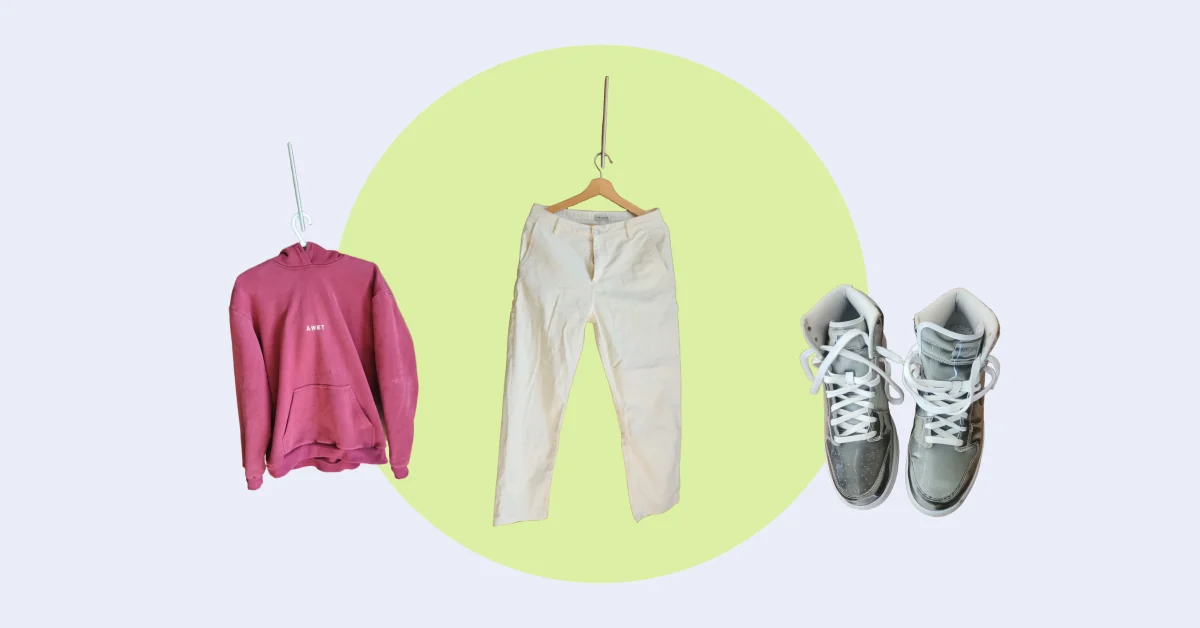
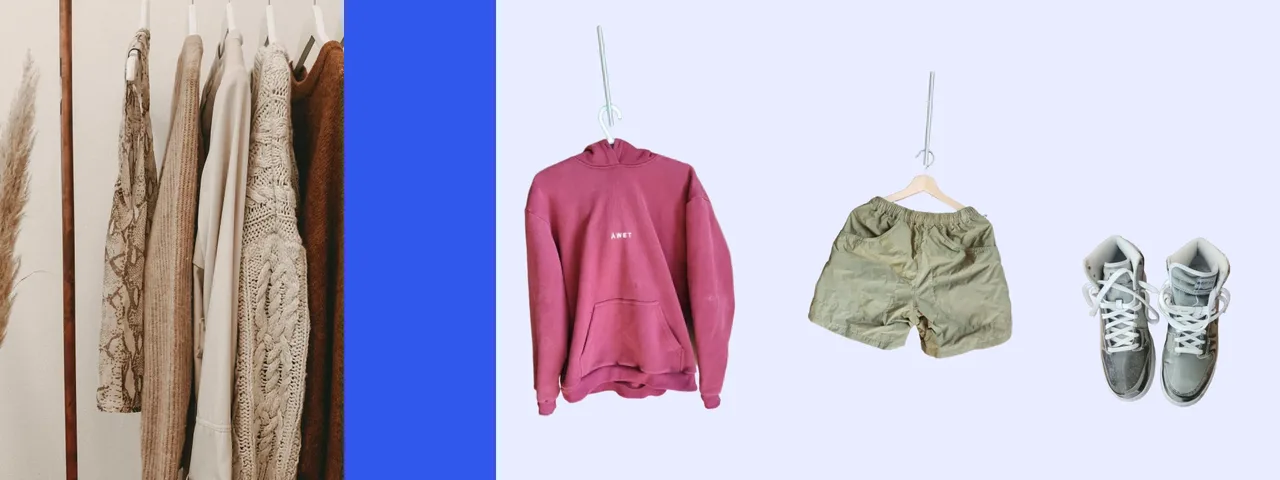
feature(ui): update brand artwork from marketing kit and remove Bramble Labs card
- Banners and marks re-derived from the Bramble Labs marketing library's
  website-graphics set (2026-11-05 edition) and regenerated avatars
- Project cards show the panoramic 1920x720 website banners at their
  native aspect, uncropped
- Remove the Bramble Labs studio card, its dormant projects.json entry,
  exclusion filter, and bramble brand assets
- Update bannerAlt copy, artwork provenance README, and stale
  README/WORKSPACE artwork references
- refresh.spec.ts asserts the studio card is gone; hidden post sources
  untouched

diff --git a/src/app/projects/page.tsx b/src/app/projects/page.tsx
@@ -4,7 +4,6 @@ import { PageShell } from "@/components/layout/PageShell";
 import { Section } from "@/components/layout/Section";
 import { OtherProjectsList } from "@/components/project/OtherProjectsList";
 import { ProjectsList } from "@/components/project/ProjectsList";
-import { Studio } from "@/components/project/Studio";
 import { blogEnabled } from "@/lib/projects";
 
 export const generateMetadata = (): Metadata => {
@@ -34,7 +33,6 @@ const BlogPage = () => {
               full-stack development.
             </p>
             <ProjectsList />
-            <Studio />
           </div>
 
           <div className="space-y-6">

diff --git a/src/components/project/ProjectCard.tsx b/src/components/project/ProjectCard.tsx
@@ -32,10 +32,10 @@ export const ProjectCard = ({ project }: { project: Project }) => {
             <Image
               src={project.banner}
               alt={project.bannerAlt ?? ""}
-              width={1200}
-              height={628}
+              width={1280}
+              height={480}
               sizes="(min-width: 1440px) 500px, (min-width: 1024px) 40vw, (min-width: 640px) 50vw, 100vw"
-              className="project-art aspect-[1200/628] w-full object-cover"
+              className="project-art aspect-[1920/720] w-full object-cover"
             />
           </a>
         )}

diff --git a/src/components/sections/Projects.tsx b/src/components/sections/Projects.tsx
@@ -1,7 +1,6 @@
 import { Section } from "@/components/layout/Section";
 import { OtherProjectsList } from "@/components/project/OtherProjectsList";
 import { ProjectsList } from "@/components/project/ProjectsList";
-import { Studio } from "@/components/project/Studio";
 
 export const Projects = () => (
   <Section
@@ -13,7 +12,6 @@ export const Projects = () => (
   >
     <div className="space-y-10">
       <ProjectsList />
-      <Studio />
 
       <div className="space-y-6">
         <div className="flex items-baseline gap-3">

diff --git a/tests/refresh.spec.ts b/tests/refresh.spec.ts
@@ -32,7 +32,8 @@ test("current products have working local artwork and canonical public links", a
   }
   await expect(
     page.getByRole("link", { name: "Meet Bramble Labs" }),
-  ).toHaveAttribute("href", "https://bramblelabs.co");
+  ).toHaveCount(0);
+  await expect(page.getByText("Growing at Bramble Labs.")).toHaveCount(0);
   await expect(
     page.locator(
       'a[href*="celestialstag"], a[href*="theluckyegg"], a[href*="github.com/miniaxolotl/fashion-vision"], a[href*="github.com/bramble-labs/fern"]',

diff --git a/src/components/project/OtherProjectsList.tsx b/src/components/project/OtherProjectsList.tsx
@@ -10,7 +10,7 @@ import type { Project } from "@/types";
 
 export const OtherProjectsList = () => {
   const other: Project[] = projects
-    .filter((p) => !p.featured && p.slug !== "bramble-labs")
+    .filter((p) => !p.featured)
     .sort(sortByYearDesc);
   return (
     <div className="divide-y divide-border border-y border-border">

diff --git a/public/img/brands/README.md b/public/img/brands/README.md
@@ -1,28 +1,33 @@
 # Portfolio brand artwork
 
-These assets are optimized WebP derivatives of the supplied
-`/home/elias/Development/marketing` library, selected on 2026-10-19.
-The originals are retained in that library; proportions and identities are unchanged.
+These assets are optimized WebP derivatives of the Bramble Labs marketing
+library at `/home/elias/Development/bramble-labs/marketing`, selected on
+2026-11-10 from its `website-graphics` edition (2026-11-05). The originals are
+retained in that library; proportions and identities are unchanged.
 
-For each of `fern`, `fitr`, `grove`, `burrow`, and `bramble`:
+For each of `fern`, `fitr`, `grove`, and `burrow`:
 
-- `*-banner.webp`: `<brand>/google-display/images/<brand>-clean-01-1200x628.png`
-- `*-mark.webp`: `<brand>/avatars/<brand>-avatar-accent-400.png`, resized to 160×160
+- `*-banner.webp`: `<brand>/website-graphics/banner.webp` (1920×720), resized
+  to 1280×480
+- `*-mark.webp`: `<brand>/avatars/<brand>-avatar-accent-400.png`, resized to
+  160×160
 
-Grove uses the selected two-leaf sprout identity documented in
-`grove/brand/README.md`. Its older cover with the retired Vercel URL is not used.
-These are editorial campaign compositions, not application screenshots.
+These are editorial website compositions, not application screenshots. Grove
+uses the selected two-leaf sprout identity documented in `grove/brand/README.md`.
+Its older cover with the retired Vercel URL is not used.
 
-Fern's friends photograph comes from
-[Unsplash](https://images.unsplash.com/photo-1529156069898-49953e39b3ac), under the
-[Unsplash license](https://unsplash.com/license). Fitr's garment cutouts are
-user-supplied photographs from its website. The Grove, Burrow, and Bramble
-illustrations are original marketing-library artwork.
+Fern's banner photography (road trip, campfire, and sparklers) comes from
+[Unsplash](https://unsplash.com/license) images credited in the marketing
+library's `website-graphics/manifest.json`. Fitr's garment cutouts are
+user-supplied photographs from its website. The Grove and Burrow illustrations
+are original marketing-library artwork.
 
 The bundled DM Sans and Instrument Serif files come from the same library's
 `_source/assets/fonts/`. Their SIL Open Font Licenses are included alongside the
 fonts in `src/app/fonts/`. The portfolio pages use system sans-serif typography;
 the generated sharing image uses the bundled DM Sans regular and bold files.
 
-Bramble Labs Inc. is the company behind Fern, Grove, and Burrow.
-Fitr is independently operated by Fitr Technologies Inc.
+Bramble Labs Inc. is the company behind Fern, Grove, and Burrow. Its website is
+linked from the About section; the portfolio no longer carries Bramble Labs
+artwork or a studio card. Fitr is independently operated by Fitr Technologies
+Inc.

diff --git a/WORKSPACE.md b/WORKSPACE.md
@@ -67,10 +67,11 @@ were unbound; no Geist font was actually loaded. The layout does not load DM San
 or Instrument Serif. The sharing image uses bundled DM Sans with a bold sans
 treatment and the restored colours; font licenses remain bundled.
 
-`public/img/brands/README.md` records the source of all five current brand marks
-and banners from the marketing library. Artwork is optimized WebP with explicit
-dimensions and responsive Next Image sizing. Campaign compositions are not app
-screenshots. Legacy article screenshots remain identified as historical where
+`public/img/brands/README.md` records the source of all four current brand marks
+and banners from the marketing library's website-graphics set. Artwork is
+optimized WebP with explicit dimensions and responsive Next Image sizing.
+Website compositions are not app screenshots. Legacy article screenshots remain
+identified as historical where
 appropriate. Global reduced-motion rules remove transitions and smooth scrolling;
 the personal mascot uses a still frame of the original pixel art.
 

diff --git a/documentation/screenshots/graphics-refresh/README.md b/documentation/screenshots/graphics-refresh/README.md
@@ -1,0 +1,17 @@
+# Graphics refresh screenshots
+
+Captured 2026-11-10 against local dev servers running the two compared
+revisions of `feature/portfolio-graphics`:
+
+- `before-*` — base `feature/portfolio-refresh` (`8529e4b`), served on
+  `localhost:6683`.
+- `after-*` — this branch, served on `localhost:6681`.
+
+| File | View | Shows |
+| --- | --- | --- |
+| `before/after-featured-desktop.png` | 1280×900 desktop, featured cards grid | Banner + mark swap: old 1200×628 campaign banners → new 1920×720 website-graphics banners (shown uncropped at their native aspect) |
+| `before/after-projects-desktop.png` | 1280×900 desktop, full projects section | Removal of the "Growing at Bramble Labs" studio card between featured work and the archive |
+| `before/after-projects-mobile.png` | 390×844 mobile (2×), full projects section | Same two changes at mobile width |
+
+Element screenshots of `#projects` (and its featured-cards grid), Playwright
+Chromium. Images wait for decode before capture.

diff --git a/README.md b/README.md
@@ -3,7 +3,7 @@
 [mawa.dev](https://mawa.dev) · Next.js 16 · React 19 · TypeScript · Tailwind CSS 4
 
 A personal portfolio of apps and developer tools, based in Calgary, AB.
-Features Fern, Grove, Fitr, Burrow, Bramble Labs, and earlier experiments.
+Features Fern, Grove, Fitr, Burrow, and earlier experiments.
 
 ## Development
 
@@ -50,8 +50,8 @@ separate company.
 
 ## Artwork
 
-Current marks and banners come from the supplied `Development/marketing` brand
-library. Optimized derivatives and provenance are in
+Current marks and banners come from the Bramble Labs marketing library's
+website-graphics set. Optimized derivatives and provenance are in
 [`public/img/brands/`](public/img/brands/README.md). The social-sharing image uses
 bundled sans fonts with licenses in `src/app/fonts/`. The pixel mascot's still
 frame keeps the existing personal identity without continuous animation.
